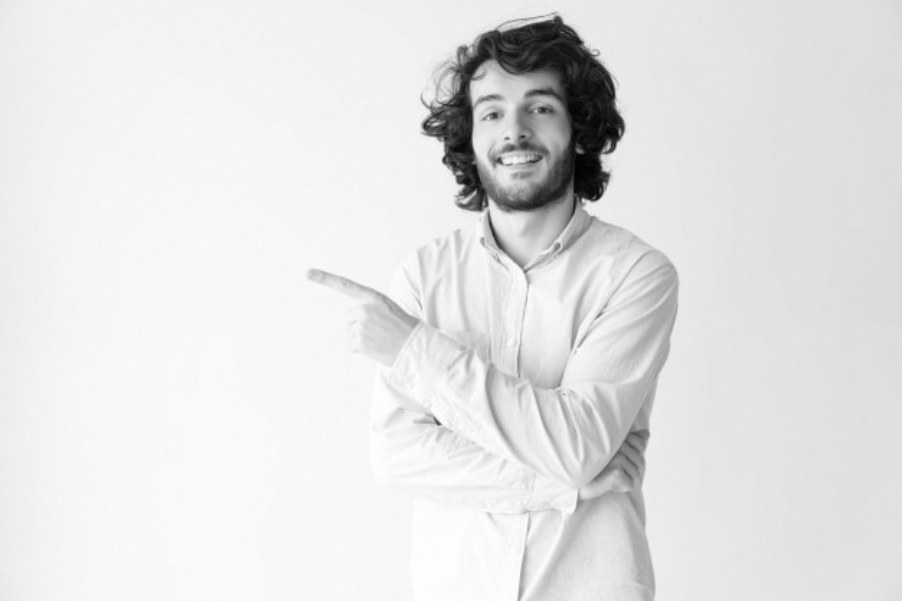
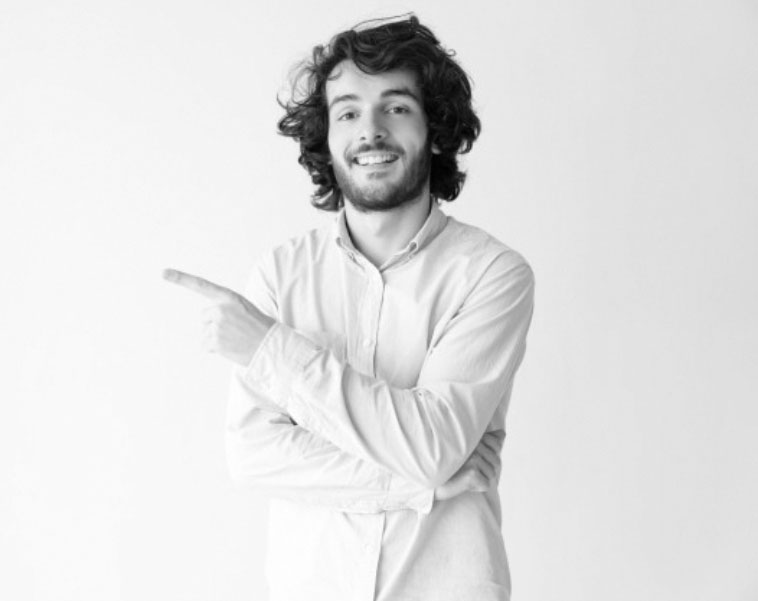
end of home part

Changed region(s): [[0.2124, 0.0, 0.7586, 1.0]]

diff --git a/styles/responsive.css b/styles/responsive.css
@@ -1,8 +1,21 @@
 @media screen and (max-width: 1400px){
-
+    .home__photo{
+        width: 45rem;
+        height: 45rem;
+    }
+    .home{
+        height: 82rem;
+    }
 }
 @media screen and (max-width: 1200px){
+    .home__photo{
+        width: 38rem;
+        height: 38rem;
 
+    }
+    .home{
+        height: 75rem;
+    }
 }
 @media screen and (max-width: 992px){
     .menu__item{
@@ -11,6 +24,24 @@
     }
     .nav__logo{
         font-size: 5rem;
+    }
+    .home__content{
+        display: flex;
+        flex-direction: column;
+        align-items: center;
+        text-align: center;
+    }
+    .home__photo{
+        margin: 0 auto;
+        width: 36rem;
+        height: 36rem;
+    }
+    .home .row{
+        flex-direction: column-reverse;
+    }
+    .home{
+        padding-top: 6rem;
+        background-image: none;
     }
 }
 @media screen and (max-width: 768px){
@@ -21,8 +52,10 @@
     .nav__logo{
         font-size: 3.5rem;
     }
+
 }
 @media screen and (max-width: 576px){
+
     .menu__item{
         margin: 1rem 0;
         font-size: 1.2rem;
@@ -69,5 +102,44 @@
     .cover--show{
         opacity: 1;
         z-index: 99;
+    }
+    .home__title{
+        font-size: 4rem;
+    }
+    .home__name{
+        font-size: 2rem;
+    }
+    .home__photo{
+        width: 34rem;
+        height: 34rem;
+        border-width: 1.5rem;
+    }
+    .home__links-wrapper{
+        gap: 1rem;
+    }
+}
+
+@media screen and (max-width: 442px){
+    .home__title{
+        font-size: 3rem;
+    }
+    .home__photo{
+    width: 32rem;
+    height: 32rem;
+    }
+    .home__link{
+        width: 100%;
+    }
+    .home__links-wrapper{
+        gap: 2rem;
+        width: 100%;
+    }
+    
+}
+
+@media screen and (max-width: 350px){
+    .home__photo{
+    width: 30rem;
+    height: 30rem;
     }
 }

diff --git a/styles/app.css b/styles/app.css
@@ -76,6 +76,7 @@ body {
     line-height: 1.5;
     color: var(--text-color);
     background-color: var(--app-bg-color);
+    padding-top: 12rem;
 }
 
 /*
@@ -91,6 +92,7 @@ body {
     position: fixed;
     right: 0;
     left: 0;
+    top: 0;
 }
 .nav{
     display: flex;
@@ -191,7 +193,7 @@ body {
 */
 
 .main{
-    padding-top: 12rem;
+
 }
 
 /*
@@ -201,7 +203,11 @@ body {
 */
 
 .home{
-    margin-top: 10rem;
+    padding-top: 10rem;
+    background-image: url(../images/shapes/header-shape.svg);
+    background-repeat: no-repeat;
+    background-position: bottom;
+    height: 92rem;
 }
 .home__content{
     
@@ -209,7 +215,7 @@ body {
 .home__name{
     font-family: "Poppins SemiBold", sans-serif;
     color: var(--primary-color);
-    font-size: 2rem;
+    font-size: 2.8rem;
 }
 .home__name span{
     color: #F57F17;
@@ -217,24 +223,26 @@ body {
 .home__title{
     font-family: "Poppins Bold";
     color: var(--primary-color);
-    font-size: 4rem;
+    font-size: 5rem;
     margin: 0;
 
 }
 .home__caption{
     margin-top: 1rem;
-    margin-bottom: 2rem;
+    margin-bottom: 3rem;
+    opacity: 71%;
 }
 .home__links-wrapper{
     display: flex;
     gap: 3rem;
+    flex-wrap: wrap;
 }
 .home__link{
 
 }
 .home__photo{
-    width: 50rem;
-    height: 50rem;
+    width: 55rem;
+    height: 55rem;
     -webkit-border-radius: 100%;
     -moz-border-radius: 100%;
     -ms-border-radius: 100%;
@@ -244,5 +252,5 @@ body {
     background-repeat: no-repeat;
     background-position: center top;
     box-shadow: 0 0 4rem rgba(96,233,255,27%);
-    border: 3rem solid white;
+    border: 2rem solid white;
 }

diff --git a/index.html b/index.html
@@ -46,7 +46,7 @@
         <section class="home">
             <div class="container">
                 <div class="row align-items-center">
-                    <div class="col-6">
+                    <div class="col-12 col-lg-7">
                         <div class="home__content">
                             <h3 class="home__name">Hello, IM<span>White Alexa</span></h3>
                             <h2 class="home__title">Creative Designer</h2>
@@ -57,14 +57,12 @@
                             </div>
                         </div>
                     </div>
-                    <div class="col-6">
+                    <div class="col-12 col-lg-5">
                         <div class="home__photo"></div>
                     </div>
                 </div>
             </div>
-            <svg xmlns="http://www.w3.org/2000/svg" width="2165.237" height="361.824" viewBox="0 0 2165.237 361.824">
-                <path id="Shape" d="M-27.061,842.561s136.212,230.682,399.849,188.94,252.483-137.226,544.85-30.757,358.107,28.729,547.046-37.349,358.107,118.637,576.45,8.788,0,232.2,0,232.2L36.82,1201.005Z" transform="translate(27.061 -842.561)" fill="#0cbfae"/>
-            </svg>
+            
 
         </section>
     </main>
